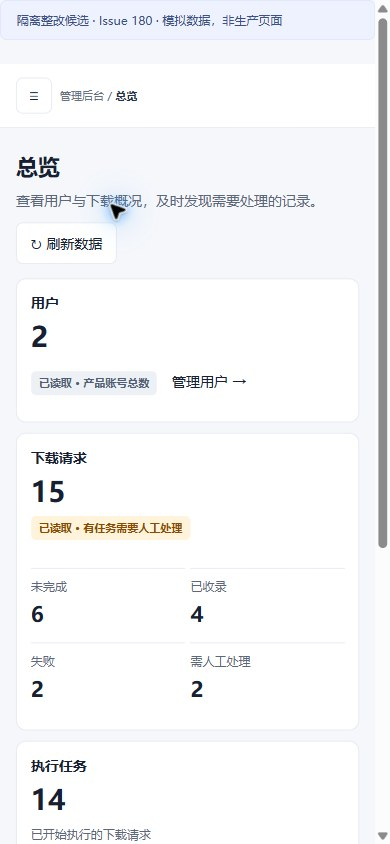
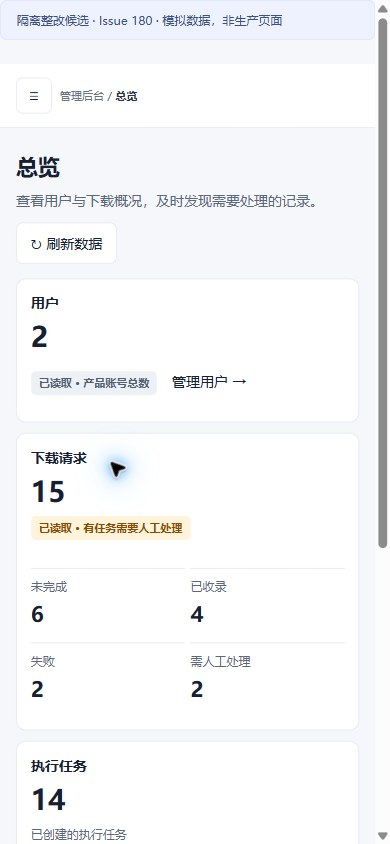
fix(admin): distinguish queued totals and identify user actions

Changed region(s): [[0.0923, 0.9858, 0.4, 1.0], [0.2462, 0.5237, 0.3385, 0.5853], [0.2462, 0.2156, 0.3385, 0.2773]]

diff --git a/internal/producthttp/web/index.html b/internal/producthttp/web/index.html
@@ -21,7 +21,7 @@
 <button id="nav-audit" class="nav-item" type="button"><span aria-hidden="true">☷</span>操作记录</button></details></nav><div class="sidebar-bottom"><div class="sidebar-note"><strong>管理工作台</strong><span>用户、下载、资源与分享管理</span></div><div class="identity"><span id="avatar" class="avatar"></span><div><strong id="user-login"></strong><small id="user-role"></small></div><button id="logout" type="button" aria-label="退出登录" title="退出登录">↗</button></div></div></aside>
  <div id="main-shell" class="main-shell"><header class="topbar"><div class="breadcrumb"><button id="menu-open" class="drawer-only" type="button" aria-controls="sidebar" aria-expanded="false" aria-label="打开导航">☰</button><span>管理后台 / <strong id="page-caption">工作台总览</strong></span></div><div class="top-actions"><a href="/">前台 ↗</a></div></header>
  <main id="main-content" class="content" tabindex="-1"><div class="page-heading"><div><h1 id="page-title">工作台总览</h1><p id="page-subtitle" class="muted"></p></div><button id="refresh-workspace" type="button" class="secondary">↻ 刷新数据</button></div><p id="workspace-error" class="error" role="alert" hidden></p>
- <section id="overview-panel" aria-label="工作台总览"><div class="metric-grid operator-metrics"><article class="metric"><h2>用户</h2><strong id="overview-users-total">—</strong><span id="overview-users-status" class="badge neutral" role="status">等待查询</span><button id="open-users" type="button" class="quiet">管理用户 →</button></article><article class="metric"><h2>下载请求</h2><strong id="overview-manifests-total">—</strong><span id="overview-status" class="badge neutral" role="status">等待查询</span><dl class="count-grid"><div><dt>未完成</dt><dd id="overview-manifests-incomplete">—</dd></div><div><dt>已收录</dt><dd id="overview-manifests-ready">—</dd></div><div><dt>失败</dt><dd id="overview-manifests-failed">—</dd></div><div><dt>需人工处理</dt><dd id="overview-manifests-recovery_required">—</dd></div></dl></article><article class="metric"><h2>执行任务</h2><strong id="overview-jobs-total">—</strong><p class="metric-caption">已开始执行的下载请求</p><dl class="count-grid"><div><dt>排队中</dt><dd id="overview-jobs-queued">—</dd></div><div><dt>执行中</dt><dd id="overview-jobs-running">—</dd></div><div><dt>已完成</dt><dd id="overview-jobs-succeeded">—</dd></div><div><dt>需人工处理</dt><dd id="overview-jobs-recovery_required">—</dd></div></dl><button id="open-admin-downloads" type="button" class="quiet">查看下载任务 →</button></article></div><section class="panel"><div class="quick-links"><button id="open-resources" type="button" class="secondary">整理资源</button><button id="open-my-tasks" type="button" class="secondary">我的任务</button><button id="open-shares" type="button" class="secondary">管理分享</button></div></section><details class="technical-details overview-technical"><summary>统计明细与数据来源</summary><p>下载请求和关联执行任务分别统计，不应相加。待开始与启动前取消的请求没有执行任务。</p><dl class="count-grid"><div><dt>待开始</dt><dd id="overview-manifests-pending">—</dd></div><div><dt>正在获取</dt><dd id="overview-manifests-active">—</dd></div><div><dt>等待索引</dt><dd id="overview-manifests-awaiting_visibility">—</dd></div><div><dt>等待收录确认</dt><dd id="overview-manifests-awaiting_canonical">—</dd></div><div><dt>已取消</dt><dd id="overview-manifests-canceled">—</dd></div><div><dt>启动前取消</dt><dd id="overview-manifests-canceled_without_job">—</dd></div><div><dt>等待下次执行</dt><dd id="overview-jobs-retry_wait">—</dd></div><div><dt>失败</dt><dd id="overview-jobs-failed">—</dd></div><div><dt>已取消</dt><dd id="overview-jobs-canceled">—</dd></div></dl><p id="overview-read-at"></p><p id="overview-users-read-at"></p><p>source: CLOUDSITE_POSTGRES_MANIFESTS_AND_JOBS<br>scope: PRODUCT_ACQUISITIONS_IN_CONFIGURED_BINDINGS</p><p>结构版本：<span id="schema"></span> · schema <span id="overview-schema"></span> · 展示空间 <span id="overview-bindings"></span></p><section><h2>连接配置</h2><span id="workspace-status"></span><dl id="workspace-facts" class="facts"></dl><p id="workspace-observed"></p></section><section><h2>当前身份与展示空间</h2><dl id="identity-facts" class="facts"></dl><div id="overview-binding-list" class="binding-list"></div></section><button id="open-diagnostics" type="button" class="secondary">查看索引状态</button><button id="open-storage" type="button" class="secondary">查看存储连接</button></details></section>
+ <section id="overview-panel" aria-label="工作台总览"><div class="metric-grid operator-metrics"><article class="metric"><h2>用户</h2><strong id="overview-users-total">—</strong><span id="overview-users-status" class="badge neutral" role="status">等待查询</span><button id="open-users" type="button" class="quiet">管理用户 →</button></article><article class="metric"><h2>下载请求</h2><strong id="overview-manifests-total">—</strong><span id="overview-status" class="badge neutral" role="status">等待查询</span><dl class="count-grid"><div><dt>未完成</dt><dd id="overview-manifests-incomplete">—</dd></div><div><dt>已收录</dt><dd id="overview-manifests-ready">—</dd></div><div><dt>失败</dt><dd id="overview-manifests-failed">—</dd></div><div><dt>需人工处理</dt><dd id="overview-manifests-recovery_required">—</dd></div></dl></article><article class="metric"><h2>执行任务</h2><strong id="overview-jobs-total">—</strong><p class="metric-caption">已创建的执行任务</p><dl class="count-grid"><div><dt>排队中</dt><dd id="overview-jobs-queued">—</dd></div><div><dt>执行中</dt><dd id="overview-jobs-running">—</dd></div><div><dt>已完成</dt><dd id="overview-jobs-succeeded">—</dd></div><div><dt>需人工处理</dt><dd id="overview-jobs-recovery_required">—</dd></div></dl><button id="open-admin-downloads" type="button" class="quiet">查看下载任务 →</button></article></div><section class="panel"><div class="quick-links"><button id="open-resources" type="button" class="secondary">整理资源</button><button id="open-my-tasks" type="button" class="secondary">我的任务</button><button id="open-shares" type="button" class="secondary">管理分享</button></div></section><details class="technical-details overview-technical"><summary>统计明细与数据来源</summary><p>下载请求和关联执行任务分别统计，不应相加。待开始与启动前取消的请求没有执行任务。</p><dl class="count-grid"><div><dt>待开始</dt><dd id="overview-manifests-pending">—</dd></div><div><dt>正在获取</dt><dd id="overview-manifests-active">—</dd></div><div><dt>等待索引</dt><dd id="overview-manifests-awaiting_visibility">—</dd></div><div><dt>等待收录确认</dt><dd id="overview-manifests-awaiting_canonical">—</dd></div><div><dt>已取消</dt><dd id="overview-manifests-canceled">—</dd></div><div><dt>启动前取消</dt><dd id="overview-manifests-canceled_without_job">—</dd></div><div><dt>等待下次执行</dt><dd id="overview-jobs-retry_wait">—</dd></div><div><dt>失败</dt><dd id="overview-jobs-failed">—</dd></div><div><dt>已取消</dt><dd id="overview-jobs-canceled">—</dd></div></dl><p id="overview-read-at"></p><p id="overview-users-read-at"></p><p>source: CLOUDSITE_POSTGRES_MANIFESTS_AND_JOBS<br>scope: PRODUCT_ACQUISITIONS_IN_CONFIGURED_BINDINGS</p><p>结构版本：<span id="schema"></span> · schema <span id="overview-schema"></span> · 展示空间 <span id="overview-bindings"></span></p><section><h2>连接配置</h2><span id="workspace-status"></span><dl id="workspace-facts" class="facts"></dl><p id="workspace-observed"></p></section><section><h2>当前身份与展示空间</h2><dl id="identity-facts" class="facts"></dl><div id="overview-binding-list" class="binding-list"></div></section><button id="open-diagnostics" type="button" class="secondary">查看索引状态</button><button id="open-storage" type="button" class="secondary">查看存储连接</button></details></section>
  <section id="users-panel" aria-label="用户管理" hidden><section class="panel"><div class="panel-head"><div><h2>全站用户</h2><p class="muted">搜索账号、查看状态或管理普通用户。</p></div><button id="refresh-users" type="button" class="secondary">↻ 刷新用户</button></div><div class="resource-toolbar"><label for="users-search">搜索账号或用户编号</label><input id="users-search" type="search" maxlength="64" placeholder="输入账号或完整用户编号" autocomplete="off"><label for="users-status">状态</label><select id="users-status"><option value="ALL">全部</option><option value="ENABLED">启用</option><option value="DISABLED">停用</option><option value="DELETED">已删除</option></select><button id="users-apply-filter" type="button" class="secondary">应用筛选</button></div><div class="table-scroll"><table><thead><tr><th>账号</th><th>角色</th><th>启用状态</th><th>创建时间</th><th>查看</th></tr></thead><tbody id="users-rows"></tbody></table></div><div id="users-empty" class="empty-state" hidden><h3>当前页没有用户</h3><p>仅在接口成功返回空页后显示，不将读取失败视为空。</p></div><div class="panel-footer"><span id="users-footer" class="muted" aria-live="polite">等待查询</span><button id="more-users" type="button" class="quiet" disabled>下一页 →</button></div></section></section>
  <section id="resources-panel" aria-label="资源中心" hidden><section class="panel"><div class="panel-head"><div><h2>文件与目录 <span class="badge neutral">当前页 <span id="resource-count">—</span> 项</span></h2><p class="muted">浏览已索引的文件与目录。</p></div><button id="refresh-resources" type="button" class="secondary">↻ 刷新资源</button></div>
   <div class="resource-toolbar"><label for="binding-select">展示空间</label><select id="binding-select"></select><button id="directory-back" type="button" class="quiet" disabled>← 上一级</button><span id="directory-label" class="muted">根层级</span></div>

diff --git a/internal/producthttp/web/admin-lists.js b/internal/producthttp/web/admin-lists.js
@@ -30,8 +30,8 @@ const AdminLists={create({present,rowLabels,el,read,generation,principal,onError
       const name=cell(row);present(name,item.login,item.user_id,'账号编号');
       cell(row).append(badge(({ADMIN:'管理员',USER:'普通用户'}[item.role]||'未知角色'),'neutral'));cell(row).append(badge(item.enabled?'启用':'停用',item.enabled?'':'warning'));
       cell(row,dateText(item.created_at));
-      const button=document.createElement('button');button.type='button';button.className='quiet';button.textContent='下载任务';button.addEventListener('click',()=>ownerSelected(item.user_id));const actions=cell(row);actions.append(button);
-      if(item.role==='USER'&&userSelected){const edit=document.createElement('button');edit.type='button';edit.className='quiet';edit.textContent='管理用户';edit.addEventListener('click',()=>userSelected(item));actions.append(edit);}
+      const button=document.createElement('button');button.type='button';button.className='quiet';button.textContent='下载任务';button.setAttribute('aria-label','查看 '+item.login+' 的下载任务');button.addEventListener('click',()=>ownerSelected(item.user_id));const actions=cell(row);actions.append(button);
+      if(item.role==='USER'&&userSelected){const edit=document.createElement('button');edit.type='button';edit.className='quiet';edit.textContent='管理用户';edit.setAttribute('aria-label','管理用户 '+item.login);edit.addEventListener('click',()=>userSelected(item));actions.append(edit);}
      }else{
       const open=document.createElement('button');open.type='button';open.className='file-button';open.textContent='请求 '+item.manifest_id.slice(-8);open.setAttribute('aria-label','查看下载请求 '+item.manifest_id);open.addEventListener('click',()=>downloadSelected?.(item.manifest_id));cell(row).append(open);
       cell(row).append(badge(AdminDownloadDetail.labels[item.manifest_state],item.manifest_state==='RECOVERY_REQUIRED'?'warning':'neutral'));present(cell(row),'',item.owner_user_id,'用户编号');cell(row,dateText(item.updated_at));
